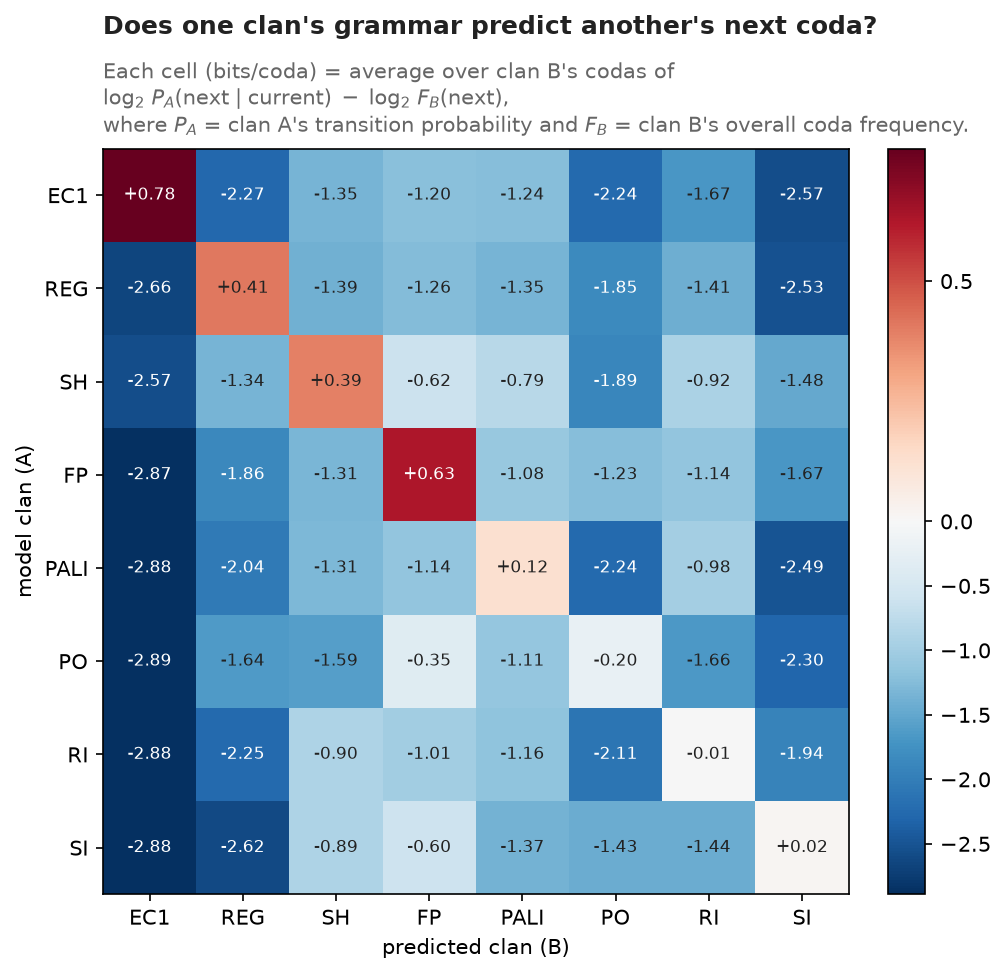
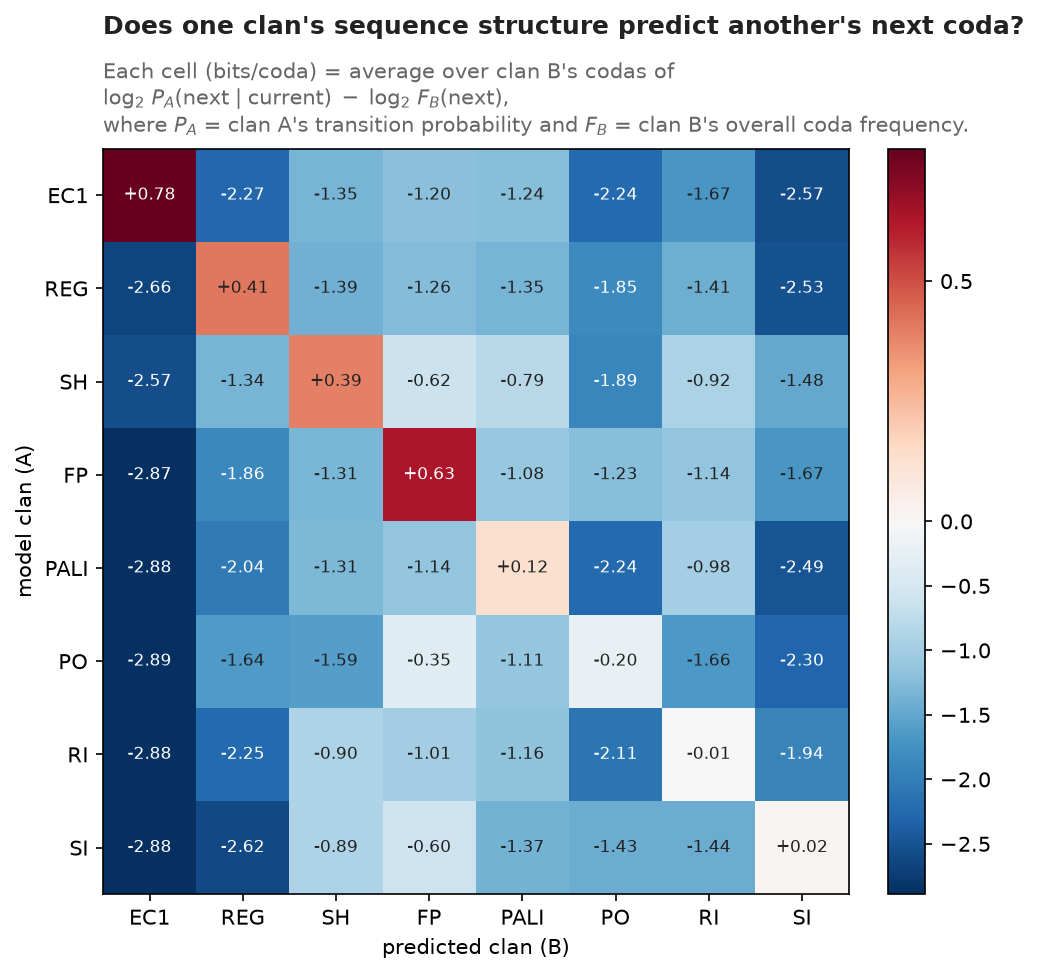
Figure 4: "grammar" -> "sequence structure" in the title
"Grammar" implies a rich rule system we haven't shown; "sequence structure" is the
modest, accurate term.

diff --git a/src/coda_recovery/clan_similarity.py b/src/coda_recovery/clan_similarity.py
@@ -180,7 +180,7 @@ def main():
     # cross-prediction is diverging around a meaningful zero (positive = shared
     # grammar, negative = actively mis-predicts): two hues, neutral (white) at 0.
     tnorm = TwoSlopeNorm(vmin=float(np.nanmin(T)), vcenter=0.0, vmax=float(np.nanmax(T)))
-    _heatmap(T, "Does one clan's grammar predict another's next coda?",
+    _heatmap(T, "Does one clan's sequence structure predict another's next coda?",
              "Each cell (bits/coda) = average over clan B's codas of\n"
              r"$\log_{2}\,P_A(\mathrm{next}\mid\mathrm{current})\;-\;\log_{2}\,F_B(\mathrm{next})$,"
              "\n"
